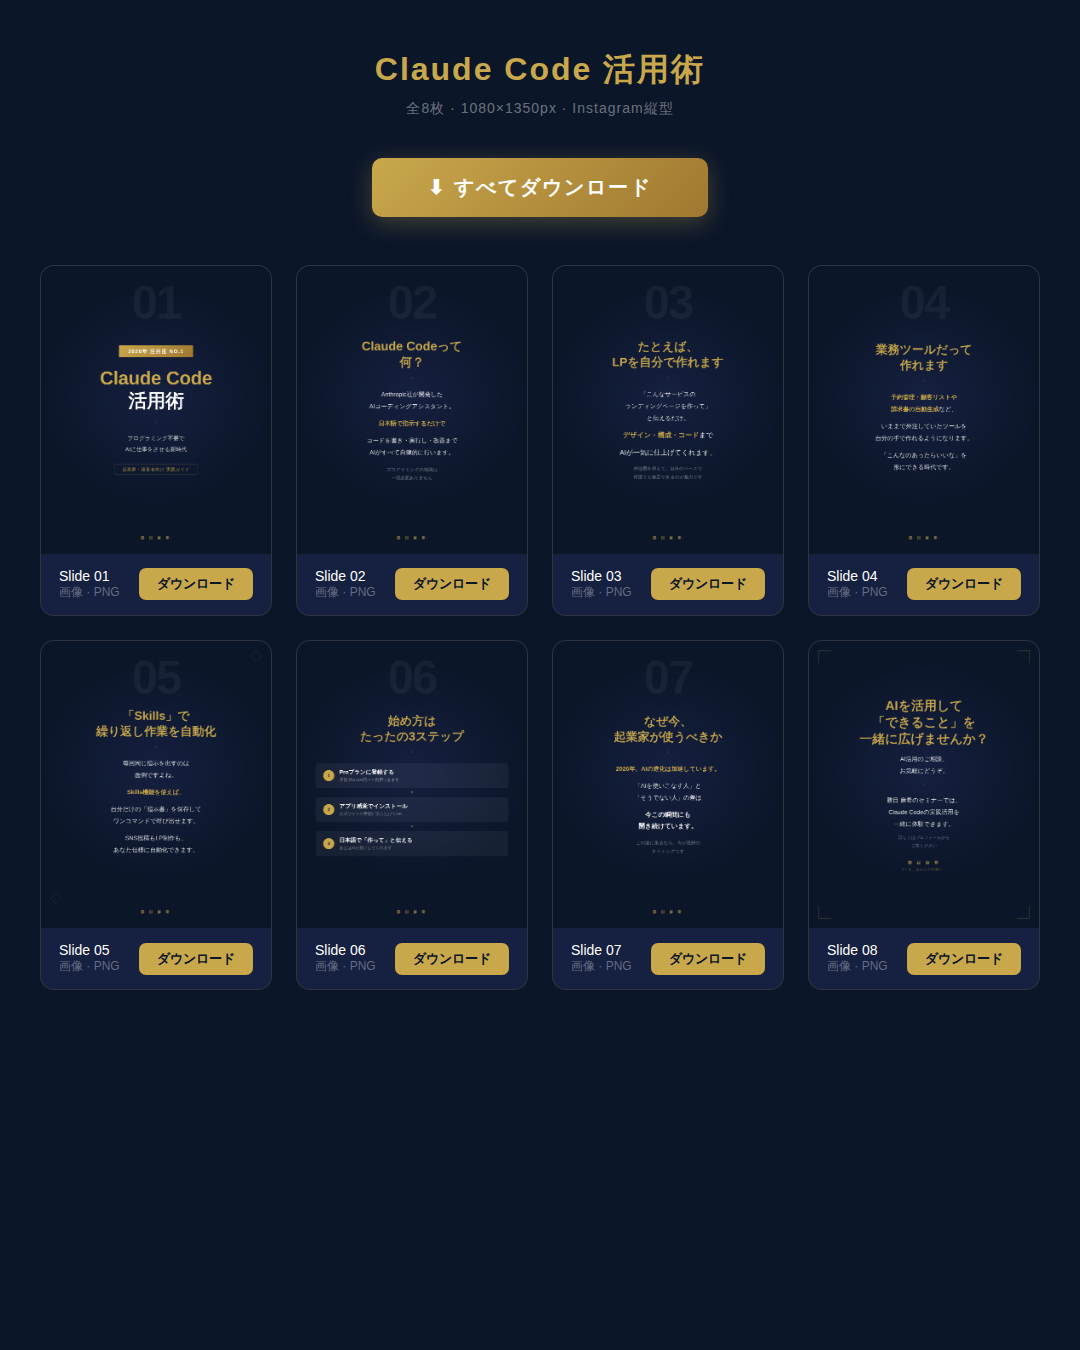
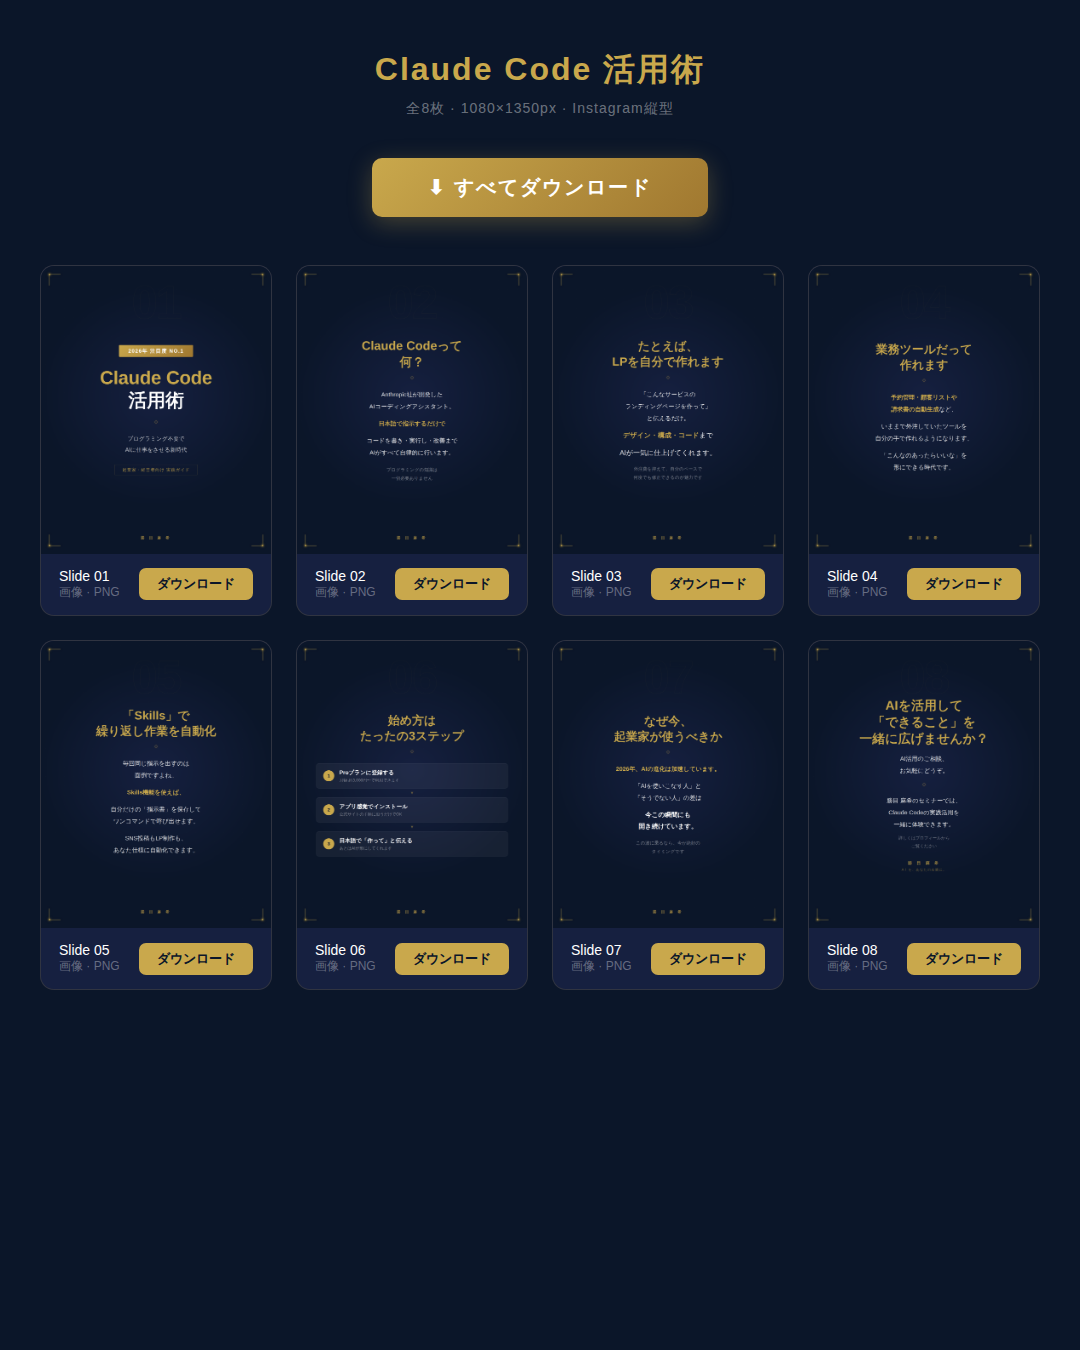
Add photo-based CTA slide (slide-08) with profile picture
- Replace text-only CTA with profile photo card design
- Circular photo with double gold ring border
- Shows name, title, tagline, and 3 service icons (AI講座/導入/コンテンツ)
- Auto-copies profile-final.jpg to output folder on each generation

https://claude.ai/code/session_01Myk739NMdXCS8a9enhgTma

diff --git a/posts/20260416/slide-08.html b/posts/20260416/slide-08.html
@@ -1,16 +1,12 @@
-<!DOCTYPE html>
-<html lang="ja">
-<head>
+<!DOCTYPE html><html lang="ja"><head>
 <meta charset="UTF-8">
 <link href="https://fonts.googleapis.com/css2?family=Noto+Sans+JP:wght@300;400;500;700;900&display=swap" rel="stylesheet">
 <style>
 *{margin:0;padding:0;box-sizing:border-box}
 html,body{width:1080px;height:1350px;overflow:hidden;font-family:'Noto Sans JP',sans-serif}
 .tc{position:absolute;width:54px;height:54px;border-style:solid;border-color:rgba(201,168,76,0.6);filter:drop-shadow(0 0 4px rgba(201,168,76,0.35))}
-.tc.tl{top:38px;left:38px;border-width:2px 0 0 2px}
-.tc.tr{top:38px;right:38px;border-width:2px 2px 0 0}
-.tc.bl{bottom:38px;left:38px;border-width:0 0 2px 2px}
-.tc.br{bottom:38px;right:38px;border-width:0 2px 2px 0}
+.tc.tl{top:38px;left:38px;border-width:2px 0 0 2px}.tc.tr{top:38px;right:38px;border-width:2px 2px 0 0}
+.tc.bl{bottom:38px;left:38px;border-width:0 0 2px 2px}.tc.br{bottom:38px;right:38px;border-width:0 2px 2px 0}
 .tc::before{content:'';position:absolute;width:7px;height:7px;border-radius:50%;background:#c9a84c;box-shadow:0 0 10px rgba(201,168,76,0.9),0 0 18px rgba(201,168,76,0.4)}
 .tc.tl::before{top:-4px;left:-4px}.tc.tr::before{top:-4px;right:-4px}
 .tc.bl::before{bottom:-4px;left:-4px}.tc.br::before{bottom:-4px;right:-4px}
@@ -20,37 +16,61 @@ body{
     radial-gradient(ellipse 80% 60% at 50% 45%,#162040 0%,#0b1629 65%);
   background-size:44px 44px,100% 100%;
   display:flex;flex-direction:column;align-items:center;justify-content:center;
-  padding:80px 90px;position:relative;color:#fff;text-align:center;
+  padding:70px 80px;position:relative;color:#fff;text-align:center;
 }
-.bg-num{
-  position:absolute;top:60px;left:50%;transform:translateX(-50%);
-  font-size:220px;font-weight:900;color:transparent;-webkit-text-stroke:1px rgba(201,168,76,0.09);
-  line-height:1;pointer-events:none;white-space:nowrap;letter-spacing:-8px;
+.photo-wrap{
+  width:380px;height:380px;border-radius:50%;overflow:hidden;flex-shrink:0;
+  border:5px solid #c9a84c;
+  box-shadow:0 0 0 5px #0b1629,0 0 0 10px rgba(201,168,76,0.45),0 0 30px rgba(201,168,76,0.25);
+  margin-bottom:30px;
 }
-h2{font-size:60px;font-weight:900;color:#c9a84c;line-height:1.3;margin-bottom:28px}
-.sub-white{font-size:28px;color:rgba(255,255,255,0.88);line-height:2;margin-bottom:28px}
-.divider{display:flex;align-items:center;gap:14px;margin:0 auto 36px;max-width:280px}
-.divider::before,.divider::after{content:'';flex:1;height:1px;background:linear-gradient(90deg,transparent,rgba(201,168,76,0.65),transparent);box-shadow:0 0 6px rgba(201,168,76,0.25)}
-.divider span{color:#c9a84c;font-size:16px;text-shadow:0 0 8px rgba(201,168,76,0.8)}
-.body{font-size:28px;color:rgba(255,255,255,0.88);line-height:2;margin-bottom:16px}
-.note{font-size:20px;color:rgba(255,255,255,0.4);line-height:1.9;margin-bottom:48px}
-.brand-wrap{display:flex;flex-direction:column;align-items:center;gap:8px}
-.brand{font-size:20px;color:#c9a84c;letter-spacing:8px;font-weight:500}
-.brand-sub{font-size:16px;color:rgba(201,168,76,0.5);letter-spacing:2px}
-</style>
-</head>
+.photo-wrap img{width:100%;height:100%;object-fit:cover;object-position:50% 12%}
+.name{font-size:54px;font-weight:900;color:#fff;letter-spacing:6px;margin-bottom:6px}
+.name-en{font-size:19px;color:rgba(201,168,76,0.6);letter-spacing:5px;font-weight:300;margin-bottom:18px}
+.title{font-size:24px;color:#c9a84c;font-weight:700;line-height:1.6;margin-bottom:14px}
+.tagline{font-size:20px;color:rgba(255,255,255,0.72);line-height:1.8;margin-bottom:28px}
+.divider{width:300px;height:1px;background:linear-gradient(90deg,transparent,rgba(201,168,76,0.65),transparent);margin:0 auto 28px;box-shadow:0 0 6px rgba(201,168,76,0.25)}
+.services{display:flex;gap:36px;justify-content:center}
+.service{display:flex;flex-direction:column;align-items:center;gap:10px;width:180px}
+.sicon{width:68px;height:68px;border-radius:50%;border:1.5px solid rgba(201,168,76,0.5);display:flex;align-items:center;justify-content:center;background:rgba(201,168,76,0.06);box-shadow:0 0 12px rgba(201,168,76,0.12)}
+.sicon svg{width:34px;height:34px}
+.slabel{font-size:18px;color:rgba(255,255,255,0.85);font-weight:500}
+</style></head>
 <body>
   <div class="tc tl"></div><div class="tc tr"></div>
   <div class="tc bl"></div><div class="tc br"></div>
-  <div class="bg-num">08</div>
-  <h2>AIを活用して<br>「できること」を<br>一緒に広げませんか？</h2>
-  <p class="sub-white">AI活用のご相談、<br>お気軽にどうぞ。</p>
-  <div class="divider"><span>◇</span></div>
-  <p class="body">勝目 麻希のセミナーでは、<br>Claude Codeの実践活用を<br>一緒に体験できます。</p>
-  <p class="note">詳しくはプロフィールから<br>ご覧ください</p>
-  <div class="brand-wrap">
-    <div class="brand">勝 目 麻 希</div>
-    <div class="brand-sub">A I を、あなたの右腕に。</div>
+  <div class="photo-wrap"><img src="profile.jpg" alt="勝目麻希"></div>
+  <div class="name">勝目 麻希</div>
+  <div class="name-en">Maki Katsume</div>
+  <div class="title">フリーランスライター・AI活用インストラクター</div>
+  <div class="tagline">言葉の力で心を動かし、<br>AIの力で可能性を広げる</div>
+  <div class="divider"></div>
+  <div class="services">
+    <div class="service">
+      <div class="sicon">
+        <svg viewBox="0 0 24 24" fill="none" stroke="#c9a84c" stroke-width="1.5" stroke-linecap="round" stroke-linejoin="round">
+          <circle cx="12" cy="9" r="5"/><line x1="9" y1="17" x2="15" y2="17"/><line x1="10" y1="20" x2="14" y2="20"/>
+          <line x1="9" y1="14" x2="9" y2="17"/><line x1="15" y1="14" x2="15" y2="17"/>
+        </svg>
+      </div>
+      <div class="slabel">AI活用講座</div>
+    </div>
+    <div class="service">
+      <div class="sicon">
+        <svg viewBox="0 0 24 24" fill="none" stroke="#c9a84c" stroke-width="1.5" stroke-linecap="round" stroke-linejoin="round">
+          <path d="M17 21v-2a4 4 0 00-4-4H5a4 4 0 00-4 4v2"/><circle cx="9" cy="7" r="4"/>
+          <path d="M23 21v-2a4 4 0 00-3-3.87"/><path d="M16 3.13a4 4 0 010 7.75"/>
+        </svg>
+      </div>
+      <div class="slabel">導入サポート</div>
+    </div>
+    <div class="service">
+      <div class="sicon">
+        <svg viewBox="0 0 24 24" fill="none" stroke="#c9a84c" stroke-width="1.5" stroke-linecap="round" stroke-linejoin="round">
+          <path d="M12 20h9"/><path d="M16.5 3.5a2.121 2.121 0 013 3L7 19l-4 1 1-4L16.5 3.5z"/>
+        </svg>
+      </div>
+      <div class="slabel">コンテンツ制作</div>
+    </div>
   </div>
-</body>
-</html>
+</body></html>
